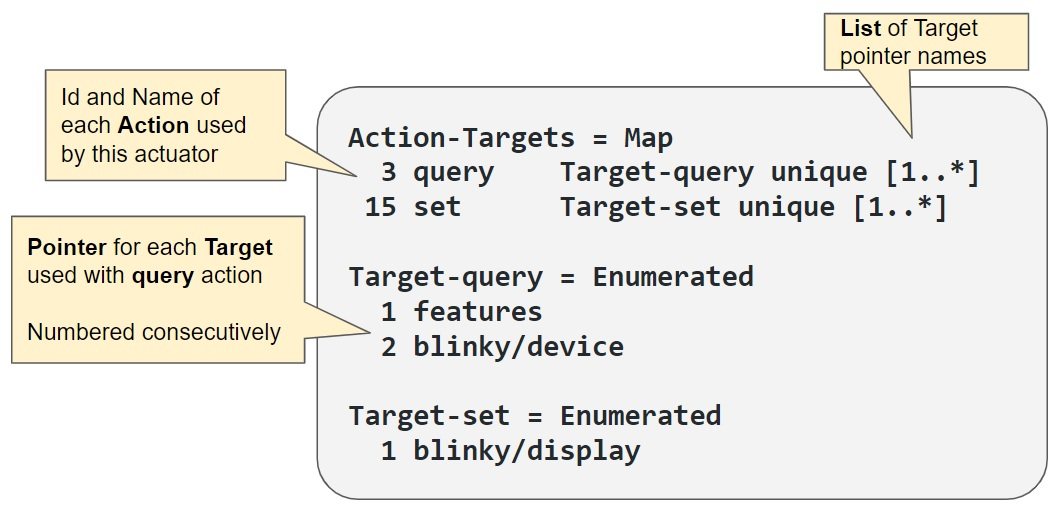
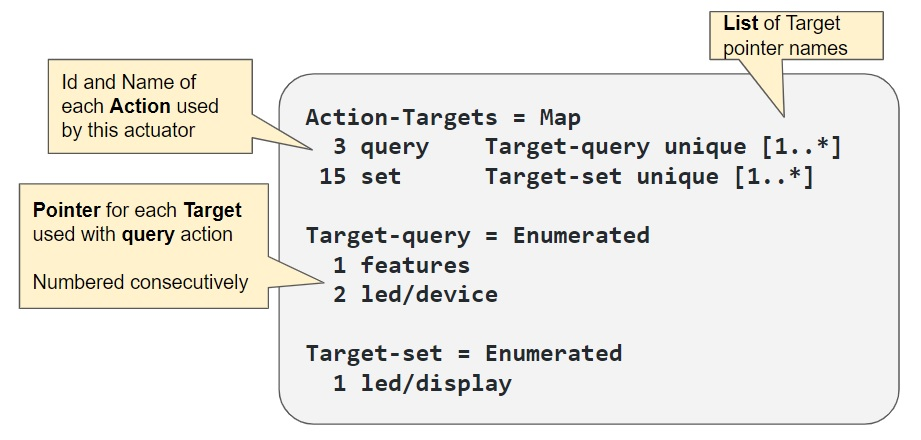
use "led" property name

diff --git a/SBOM-PoC/Schemas/README.md b/SBOM-PoC/Schemas/README.md
@@ -43,8 +43,13 @@ to the project's schema file ['blinky.jidl'](blinky/blinky.jidl).
 * Customize the Action-Target list to reflect the commands from step 2. ([Show](images/ap-template-pairs.jpg))
 
 #### 4. Define profile-specific types
-We specified two profile-specific targets (device and display) above.  Define their contents in AP-Target.  Define
-the desired response format for these commands in AP-Results. ([Show](images/ap-template-device.jpg))
+We specified two profile-specific targets (device and display) above.  Define their contents as fields of LED-Target.
+Define the desired response format for these commands as fields of LED-Results. ([Show](images/ap-template-device.jpg)).
+Note that the four top-level profile-specific types LED-Target, LED-Args, LED-Specifiers, and LED-Results are by convention
+named with the property name LED. There is no naming convention for profile-defined types below the top level; use
+names that are descriptive with or without the property name.  This example defines a "Device" type, which also
+happens to be the name of an OpenC2 Target. Namspacing (ls:Device vs. led:Device) allows both definitions to be
+used without conflict.
 
 After defining the device-specific content, the blinky profile schema should look like
 [blinky.jidl](blinky/blinky.jidl). This schema, in text or table ([blinky.md](blinky/blinky.md)) format,

diff --git a/SBOM-PoC/Schemas/blinky/blinky.md b/SBOM-PoC/Schemas/blinky/blinky.md
@@ -93,8 +93,8 @@
 
 | ID | Name | Type | # | Description |
 | ---: | :--- | :--- | ---: | :--- |
-| 1 | **device** | ArrayOf(Enum[Led-Device]){1..*} unique | 1 | Device properties to return |
-| 2 | **display** | Led-Display | 1 |  |
+| 1 | **device** | ArrayOf(Enum[Device]){1..*} unique | 1 | Device properties to return |
+| 2 | **display** | Display | 1 |  |
 
 **_Type: LED-Args (Map{1..*})_**
 
@@ -110,16 +110,16 @@
 
 | ID | Name | Type | # | Description |
 | ---: | :--- | :--- | ---: | :--- |
-| 1 | **device** | Led-Device | 0..1 |  |
+| 1 | **device** | Device | 0..1 |  |
 
-**_Type: Led-Device (Map{1..*})_**
+**_Type: Device (Map{1..*})_**
 
 | ID | Name | Type | # | Description |
 | ---: | :--- | :--- | ---: | :--- |
 | 1 | **product** | String | 0..1 | Descriptive name of actuator device |
 | 2 | **resolution** | String | 0..1 | width x height |
 
-**_Type: Led-Display (Choice)_**
+**_Type: Display (Choice)_**
 
 | ID | Name | Type | # | Description |
 | ---: | :--- | :--- | ---: | :--- |
